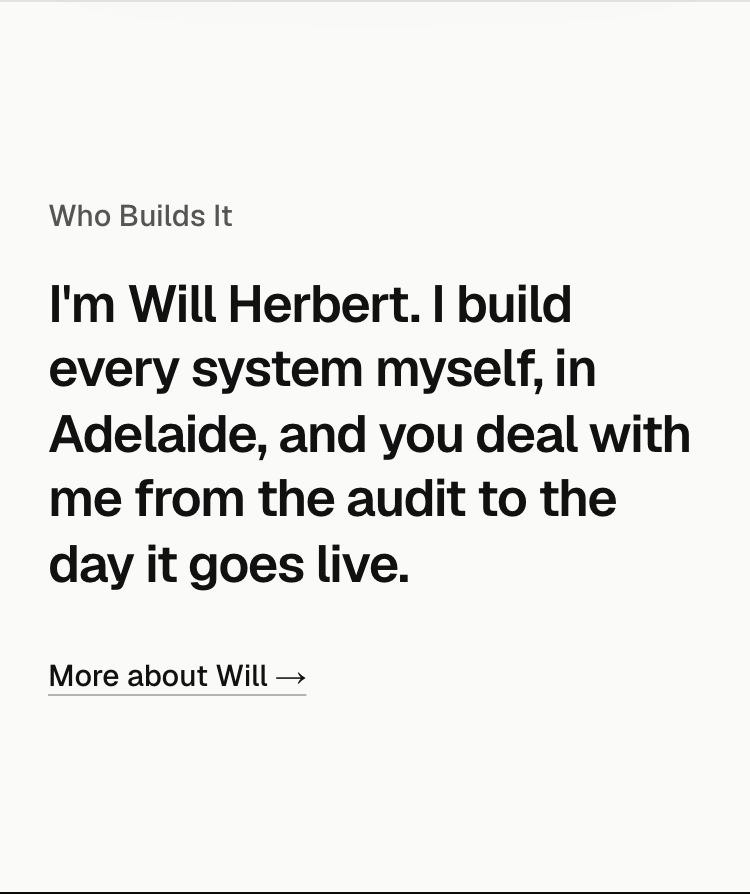
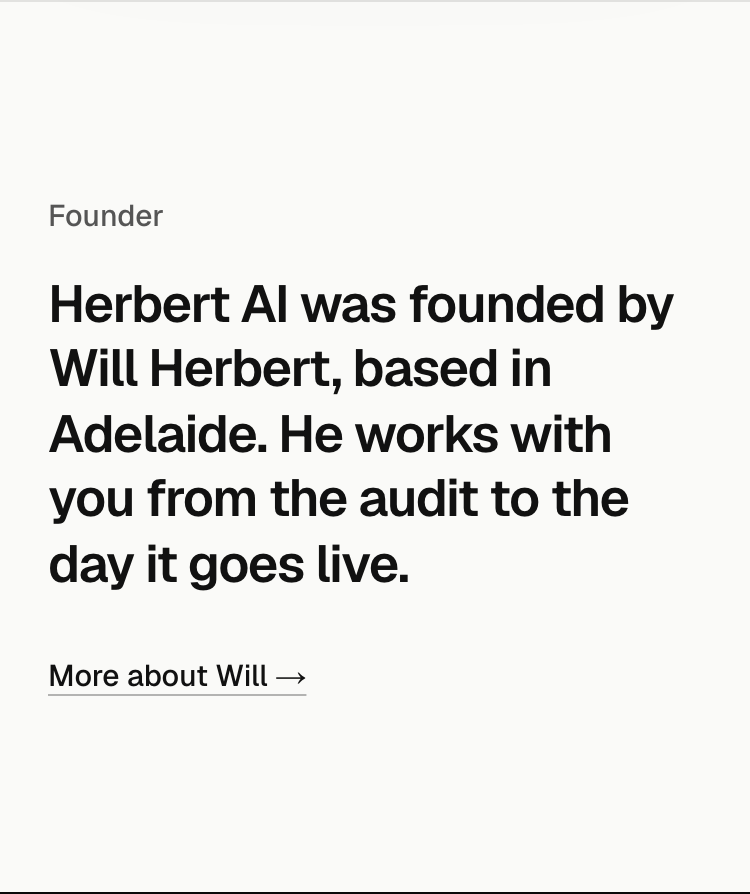
who builds it: the founder note said flat under founder, works with you from the audit to go-live; detail 1 of 3 done

Changed region(s): [[0.0613, 0.3926, 0.92, 0.604], [0.0613, 0.302, 0.8893, 0.3926], [0.0613, 0.2114, 0.3067, 0.2718]]

diff --git a/herbertai-website/src/app/page.js b/herbertai-website/src/app/page.js
@@ -85,14 +85,18 @@ function HowItWorks() {
 // founder photo to About ("A founder photo on About only", 22 Sep 2026). Nothing
 // moves: no job finishes here. Options 2 (name and photo) and 3 (a signed note)
 // are drawn in docs/design/design-pass-site-2026-10-19-founder.png.
+// Detail 1, the words (19 Oct 2026): said flat, in the third person, under the
+// label Founder (Will: "i feel like the who builds it is a bit cheesey", then
+// his first sentence, and "works with you" over "deal with", which "reads as if
+// its a pain point").
 function FounderNote() {
   return (
     <section className="bg-[#FAFAF8] text-[#111] border-t border-[#111]/10">
       <div className="max-w-[1280px] mx-auto px-6 lg:px-12 py-24">
-        <p className="text-[15px] font-medium text-[#555] mb-4">Who Builds It</p>
+        <p className="text-[15px] font-medium text-[#555] mb-4">Founder</p>
         <p className="font-semibold tracking-[-0.025em] leading-[1.25] max-w-[28ch]" style={{ fontSize: 'clamp(26px, 3vw, 42px)' }}>
-          I&apos;m Will Herbert. I build every system myself, in Adelaide, and you deal
-          with me from the audit to the day it goes live.
+          Herbert AI was founded by Will Herbert, based in Adelaide. He works with you
+          from the audit to the day it goes live.
         </p>
         <p className="mt-7">
           <Link href="/about" className="text-[15px] font-medium underline underline-offset-4 decoration-[#111]/30 hover:decoration-[#111]">

diff --git a/herbertai-website/docs/design/design-pass-site-2026-09.md b/herbertai-website/docs/design/design-pass-site-2026-09.md
@@ -41,7 +41,7 @@ Phase 3, section by section (facts, options, pick, build, details):
 | 3. AI Employees | [x] | [x] | [x] | [x] | [x] | Five details and the avatar motion, 16 Oct |
 | 4. Operating Systems | [x] | [x] | [x] | [x] | [x] | Value model 15 Oct; details 16 and 17 Oct; phone version on phones |
 | 5. Products | [x] | [x] | [x] | [x] | [x] | Six details, 19 Oct 2026: Will’s line, his story as the facts, the full-product dashboard, In development in place of the note and link, the full-product phone version |
-| 6. Who Builds It | [x] | [x] | [x] | [x] | [~] | Built 19 Oct: the note set plain, no photo; details 1 of 3 (the words) next |
+| 6. Who Builds It | [x] | [x] | [x] | [x] | [~] | Built 19 Oct, no photo; detail 1 of 3 (the words, said flat under Founder) applied, details 2 and 3 (the close, the phone) next |
 | 7. Book the Audit | [ ] | [ ] | [ ] | [ ] | [ ] | |
 
 ## [~] M4.1 Whole-site decisions (options shown 16 Sep 2026)
@@ -1882,4 +1882,19 @@ Board: `design-pass-site-2026-10-19-founder-flat.png`. The label becomes
 in Adelaide. He builds every system, and you deal with him from the audit to
 the day it goes live." Today; 1 at today’s size (recommended); 2 quieter, at
 body size in grey. Awaiting Will’s pick.
+Will (19 Oct 2026): "1 - i think we do Herbert AI was founded by Will Herbert,
+based in Adelaide. idk if we need the 'he builds every system' part, what do u
+think". Recommended dropping "builds every system" (reads small, goes stale
+with a first hire) and keeping the no hand-off promise. Will: "you deal with
+him from the audit to the day it goes live reads as if its a pain point".
+Offered "works with you", "is with you", or the first sentence alone. Will: "1".
+
+## [x] Who Builds It details, 1 of 3: the words (19 Oct 2026)
+
+Built: the label "Founder" and the line "Herbert AI was founded by Will
+Herbert, based in Adelaide. He works with you from the audit to the day it
+goes live." at today’s size. Verified at 1440, 1280, 375 and 320, motion on
+and off: no overflow, no errors, the link to /about. Charter section 6 updated.
+Lesson for the Lines register: "deal with" reads as a chore even when the
+promise is good; check verbs for the feeling they carry, not only the fact.
 

diff --git a/herbertai-website/docs/design/CHARTER.md b/herbertai-website/docs/design/CHARTER.md
@@ -214,7 +214,8 @@ steps as being AI audit, AI employee, and then AI Operating System").
    click of a button.", and the product as a story in five numbered steps:
    Type your name, Writes ads, Runs ads, Answers leads, Books jobs (19 Oct
    2026).
-6. Who Builds It: the founder, named.
+6. Who Builds It: the founder, named, said flat in the third person under the
+   label Founder, no photo (19 Oct 2026).
 7. Book the Audit: the button and the three audit facts.
 
 The research behind the order and the motion rule:
